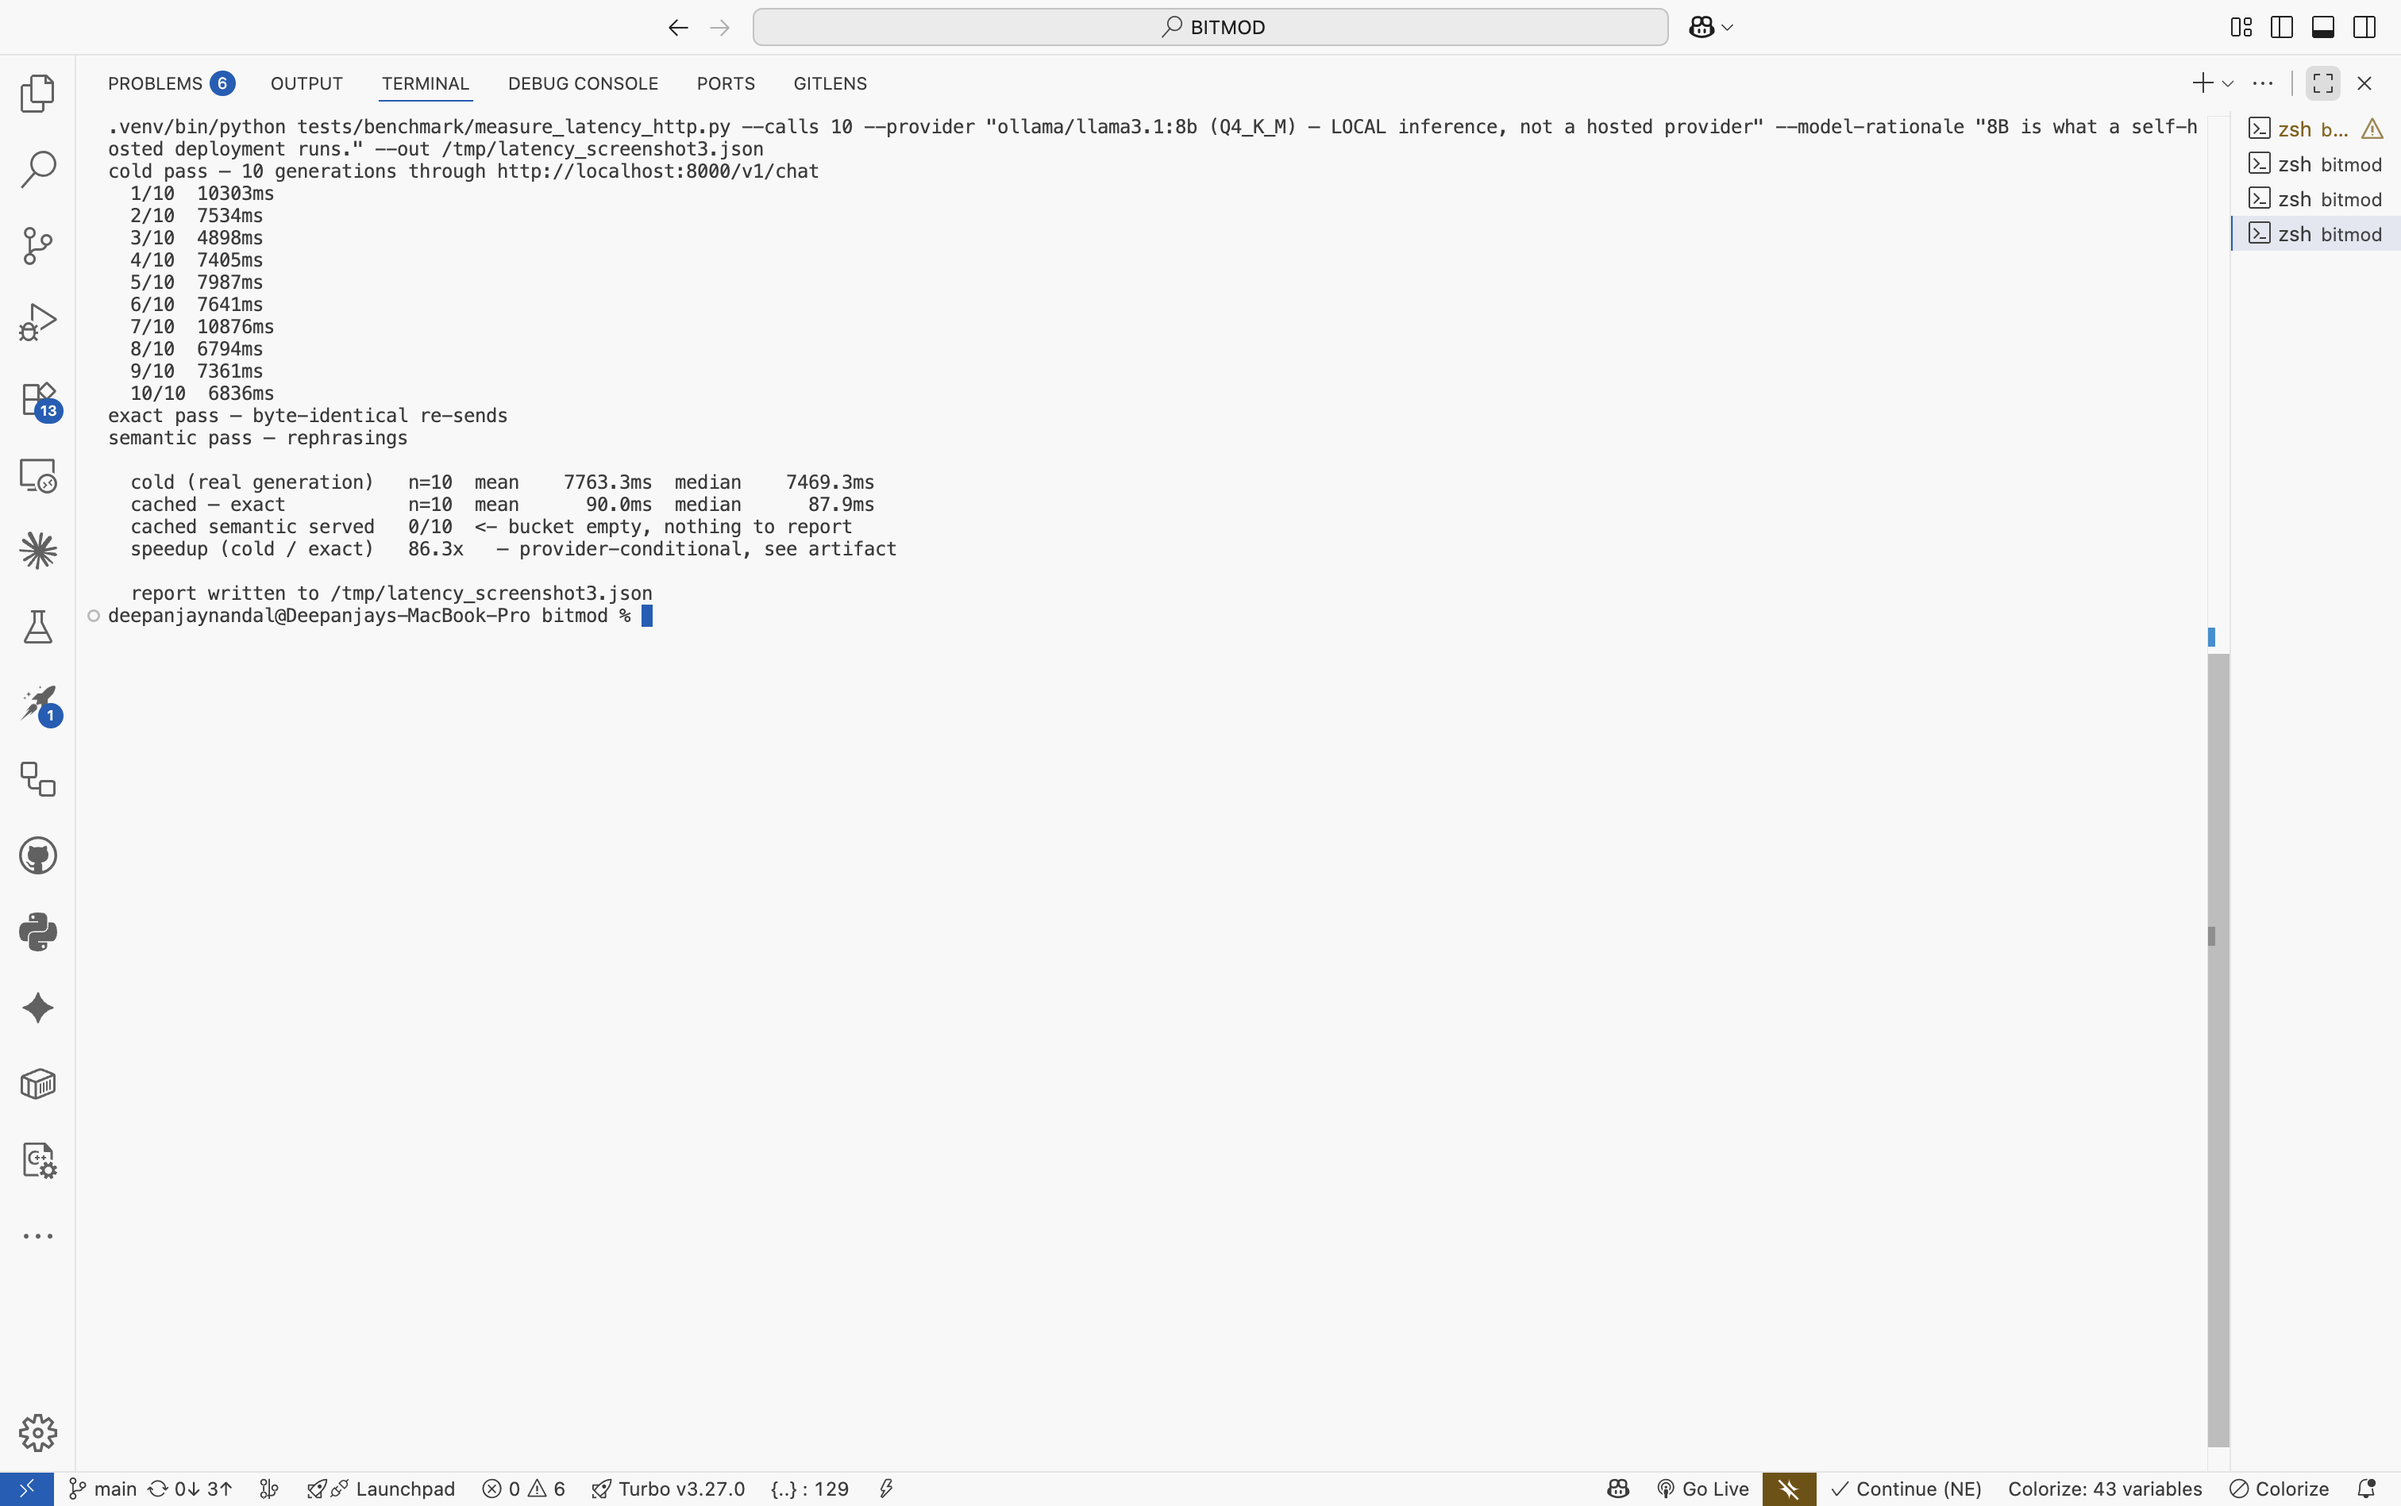
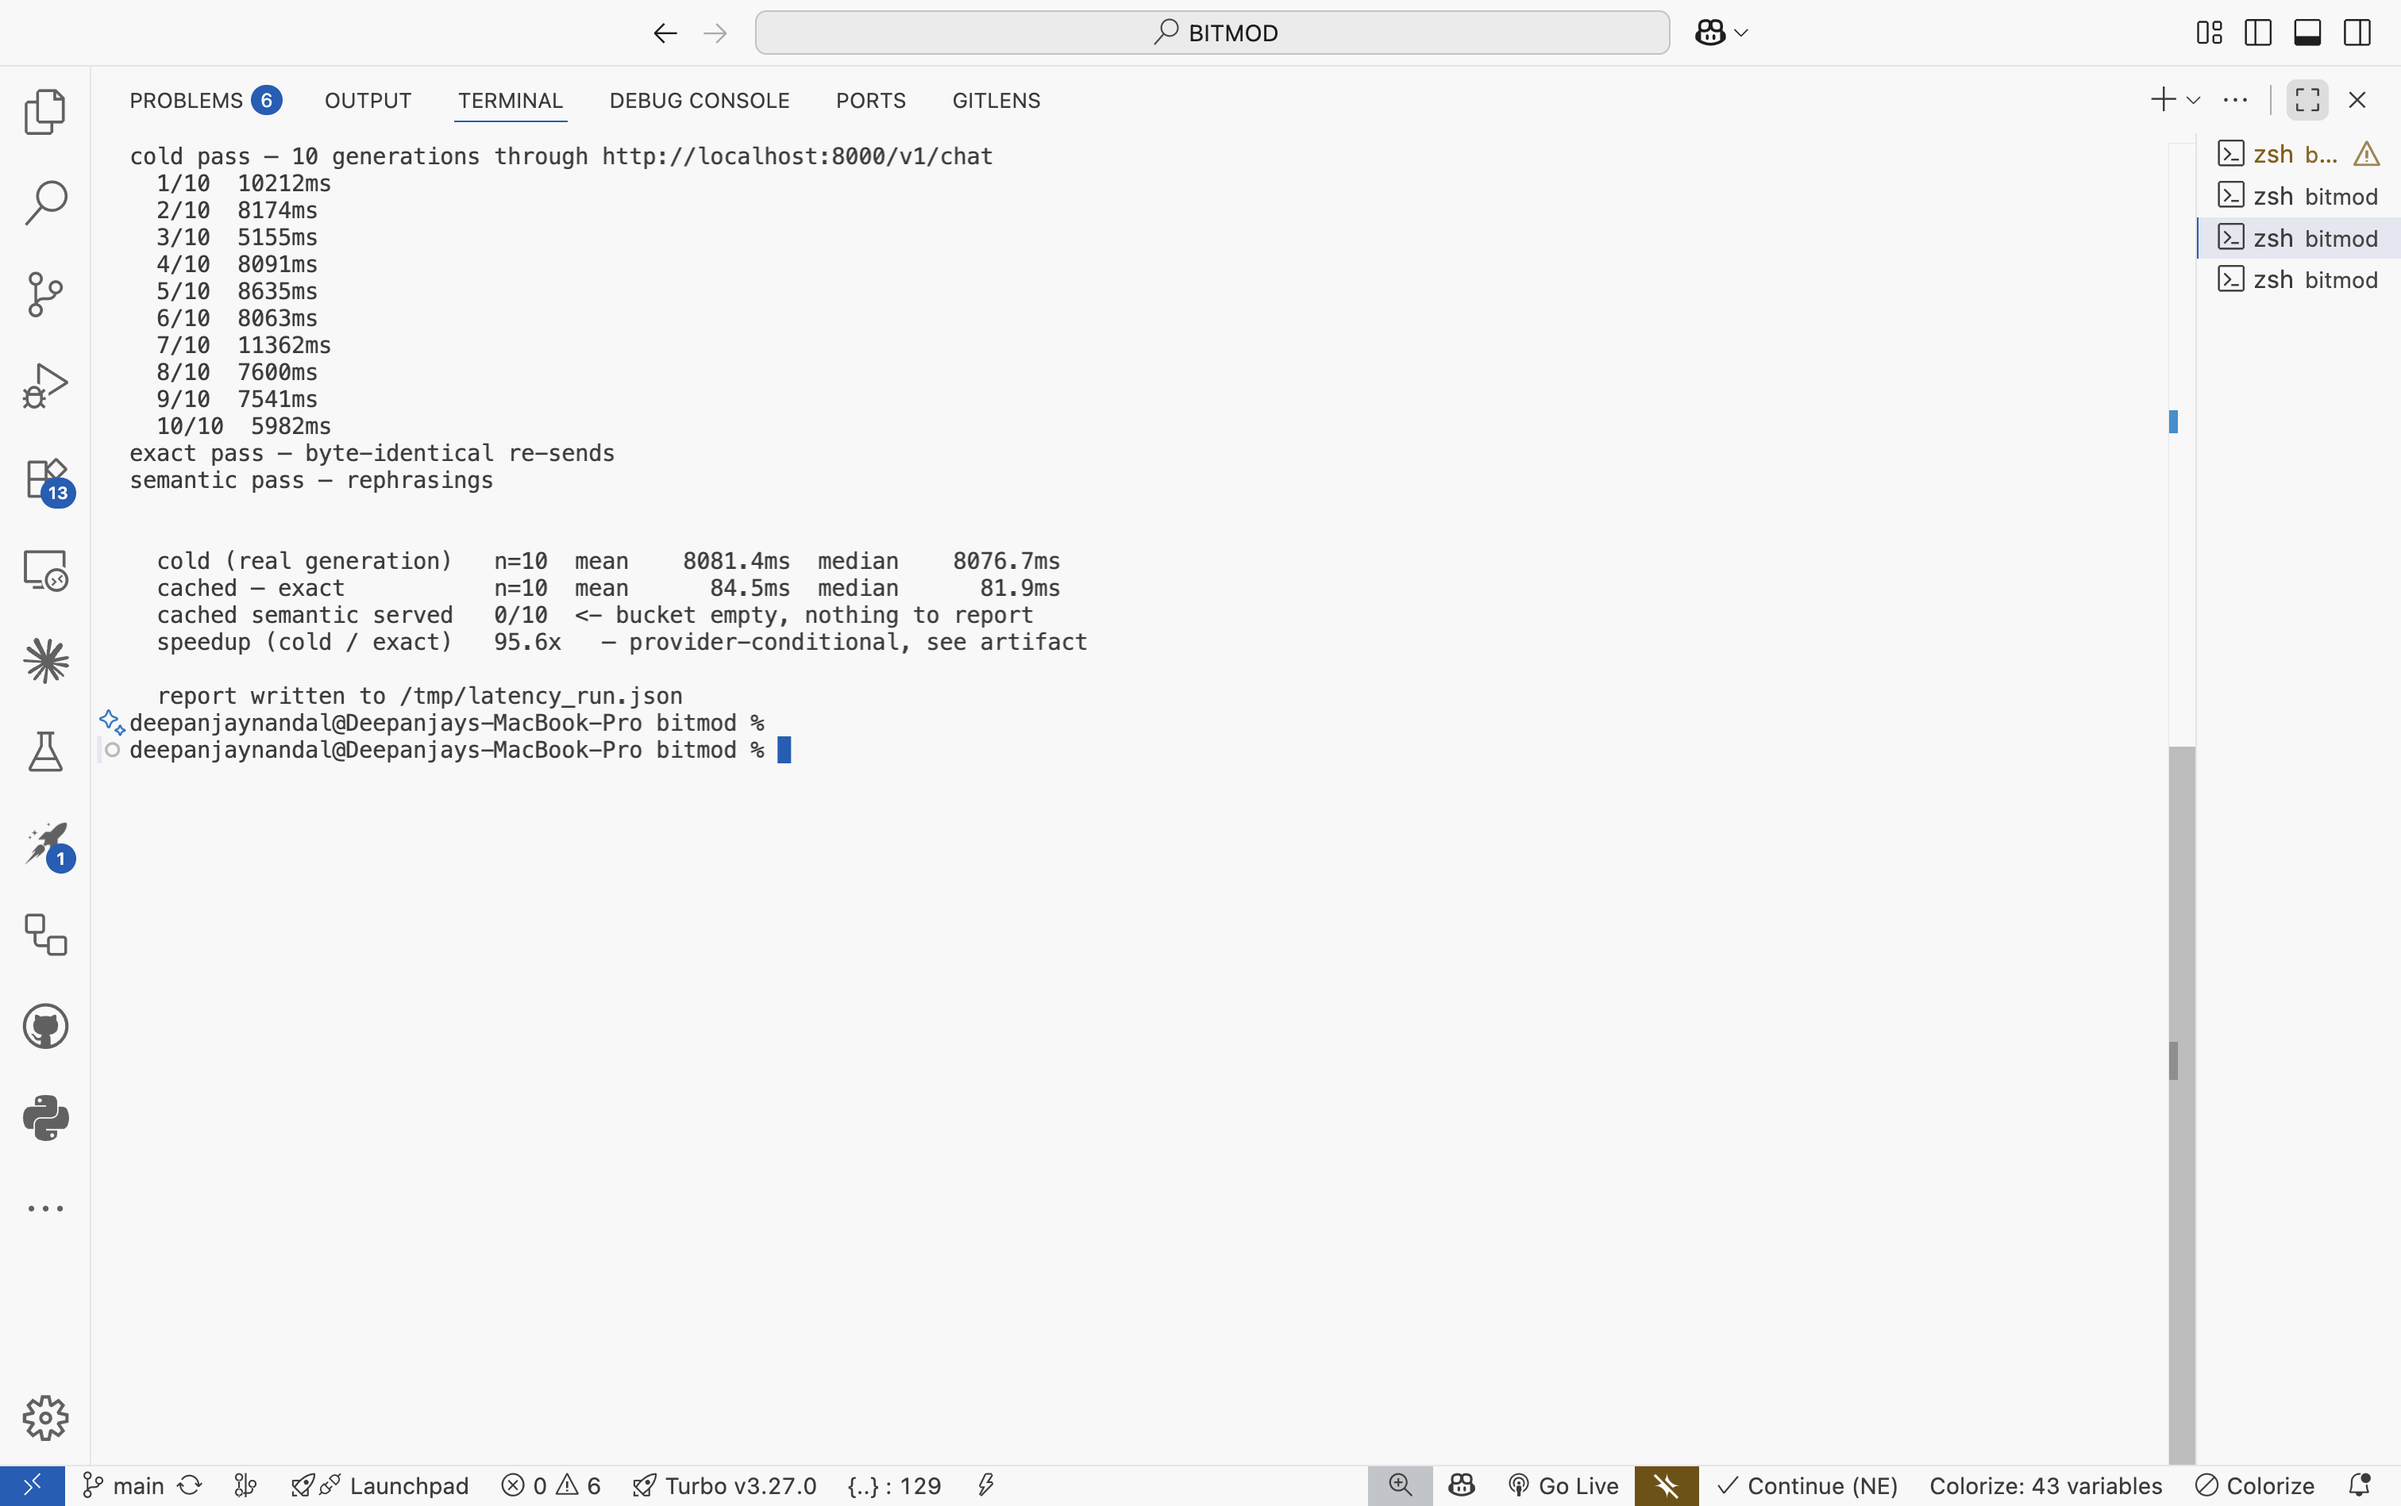
correct the README's images, latency ranges, and line 146
IMAGES. demo_queries.png and demo_stats.png were deleted and the README still
linked them, so it rendered two broken images. They are replaced by demo_run.png
and latency_run.png. The Playground captures were retaken and the new files use
underscores — chatscreen_1.png and chatscreen_2.png — so the old links would
have broken too. Captions are rewritten rather than relinked: the new captures
show the corrected UI and name the model.

LATENCY. Every figure is now a range, because two runs of the same script
against the same model disagreed. Cached-exact medians across five runs are
68.4, 69.6, 71.9, 79.5 and 81.9ms, so the stated 68-80ms was already wrong.
Speedup is 95.6-99.3x rather than 99x — the endpoints are exact so that the
figure in latency_run.png sits inside the printed range instead of one decimal
outside it. Both artifacts are cited.

Two "5ms" claims are removed rather than renumbered. That number came from the
Playground's cumulative pipeline trace, not an HTTP round trip, so neither 5ms
nor the measured 70-85ms describes it correctly. The sentence does not need a
number.

LINE 146 made three claims and they have three different verdicts, so they are
now three lines. "Cascade" is dropped: invalidation is real but one hop,
section to answers, and nothing walks a dependency graph. TTL is true but never
engaged — entries written by the proxy and chat service pass no max_age_seconds
and never expire. LRU eviction is SQLite-only. See HANDOFF items 35, 34 and 21.
[…]

diff --git a/README.md b/README.md
@@ -24,15 +24,17 @@ dragged by the first call loading the model.
 
 | Metric | Value |
 |---|---|
-| Cached response latency (exact match) | **68–80ms** |
-| LLM latency (no cache) | **8.0s** median |
-| Speedup | **99×** |
+| Cached response latency (exact match) | **68–82ms** |
+| LLM latency (no cache) | **8.0–8.1s** median |
+| Speedup | **95.6–99.3×** |
 
-Artifact: [`latency_http_llama31_8b.json`](tests/benchmark/results/latency_http_llama31_8b.json).
-The cached figure is a range because it moves with machine memory pressure —
-four runs gave 68.4, 69.6, 71.9 and 79.5ms. Rephrased queries that are served
-semantically rather than by exact match cost more; they are not in this figure.
-These numbers describe self-hosted inference, not a hosted provider.
+Artifacts: [`run 1`](tests/benchmark/results/latency_http_llama31_8b.json) and
+[`run 2`](tests/benchmark/results/latency_http_llama31_8b_run2.json), n=10 each.
+Every figure is a range because two runs of the same script against the same
+model gave different answers. Cached-exact medians across five runs: 68.4, 69.6,
+71.9, 79.5, 81.9ms — it moves with machine memory pressure. Rephrased queries
+served semantically rather than by exact match cost more and are not in this
+figure. These numbers describe self-hosted inference, not a hosted provider.
 
 ### Reproduce it locally (no API key required)
 
@@ -52,19 +54,19 @@ thresholds overridden.
 python demo.py  # requires Ollama running with nomic-embed-text
 ```
 
-![BitMod demo — per-query cache decisions](docs/demo_queries.png)
+![BitMod demo — per-query layer attribution and the 76% summary](docs/demo_run.png)
 
-![BitMod demo — cache learning and full benchmark](docs/demo_stats.png)
+![End-to-end latency measured over HTTP through the gateway](docs/latency_run.png)
 
 Benchmark hit rates are workload-dependent. High-repetition datasets (helpdesk, legal Q&A) hit differently than open-ended conversations. See Known Limitations.
 
 ### Interactive Playground
 
-The playground UI shows every cache layer decision in real time. First query goes to the LLM and is stored. Second identical query is served from Exact Cache in 5ms.
+The playground UI shows every cache layer decision in real time. First query goes to the LLM and is stored. Second identical query is served from Exact Cache.
 
-![Playground — first query, LLM generated](docs/chatscreen1.png)
+![Playground — first query, generated by llama3.1:8b and stored](docs/chatscreen_1.png)
 
-![Playground — second query, Exact Cache HIT in 5ms](docs/chatscreen2.png)
+![Playground — same query again, served from Exact Cache with the full pipeline trace](docs/chatscreen_2.png)
 
 ---
 
@@ -101,7 +103,7 @@ flowchart TD
     end
 
     A --> gw --> ce
-    ce -->|"confidence ≥ 0.95  ·  cache hit  ·  71ms" | A
+    ce -->|"confidence ≥ 0.95  ·  cache hit  ·  ~70-85ms over HTTP" | A
     ce -->|"confidence < 0.30  ·  cache miss"| p
     ce -->|"0.30–0.94  ·  partial hit  ·  token reduction"| p
     p -->|"generate → embed → store"| ce
@@ -143,7 +145,9 @@ This is not winner-take-all. A semantic match at 0.88 plus a fuzzy match at 0.72
 **Supporting mechanisms (not lookup layers):**
 
 - **Cache Qualification Gate**: runs before serving from layers ② and ⑤, detects context-dependent queries ("tell me more", pronoun-heavy follow-ups) and routes them to the LLM instead
-- **Cascade Invalidation + TTL**: maintenance layer; source changes propagate invalidation to all dependent cached answers; cost-aware LRU eviction prioritises keeping expensive-to-regenerate entries
+- **Invalidation**: maintenance layer; changing a source section invalidates the answers derived from it. One hop, not a dependency-graph walk.
+- **TTL**: entries carry an optional `max_age_seconds` and expire on read. No global default is configured, so entries written by the proxy and chat service never expire.
+- **LRU eviction**: cost-aware, keeping expensive-to-regenerate entries. Implemented on SQLite only — PostgreSQL, MySQL and MongoDB do not evict.
 
 ### Source-Version Locking
 
